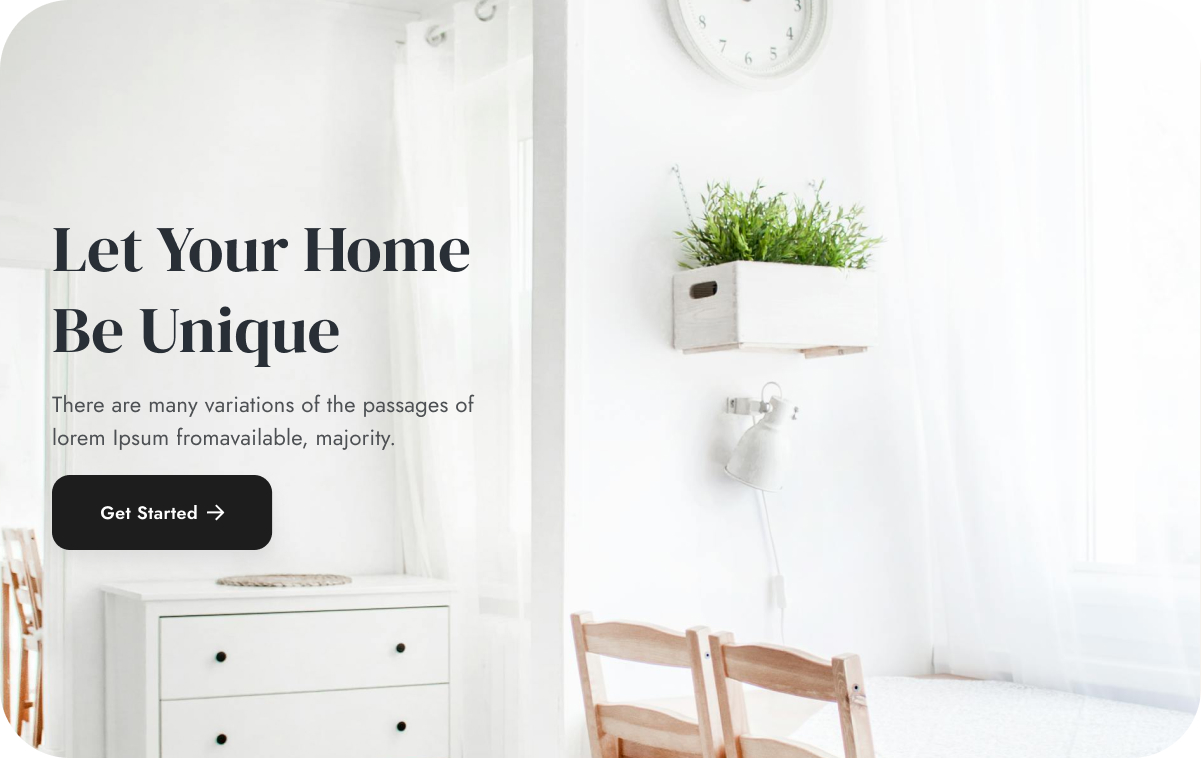
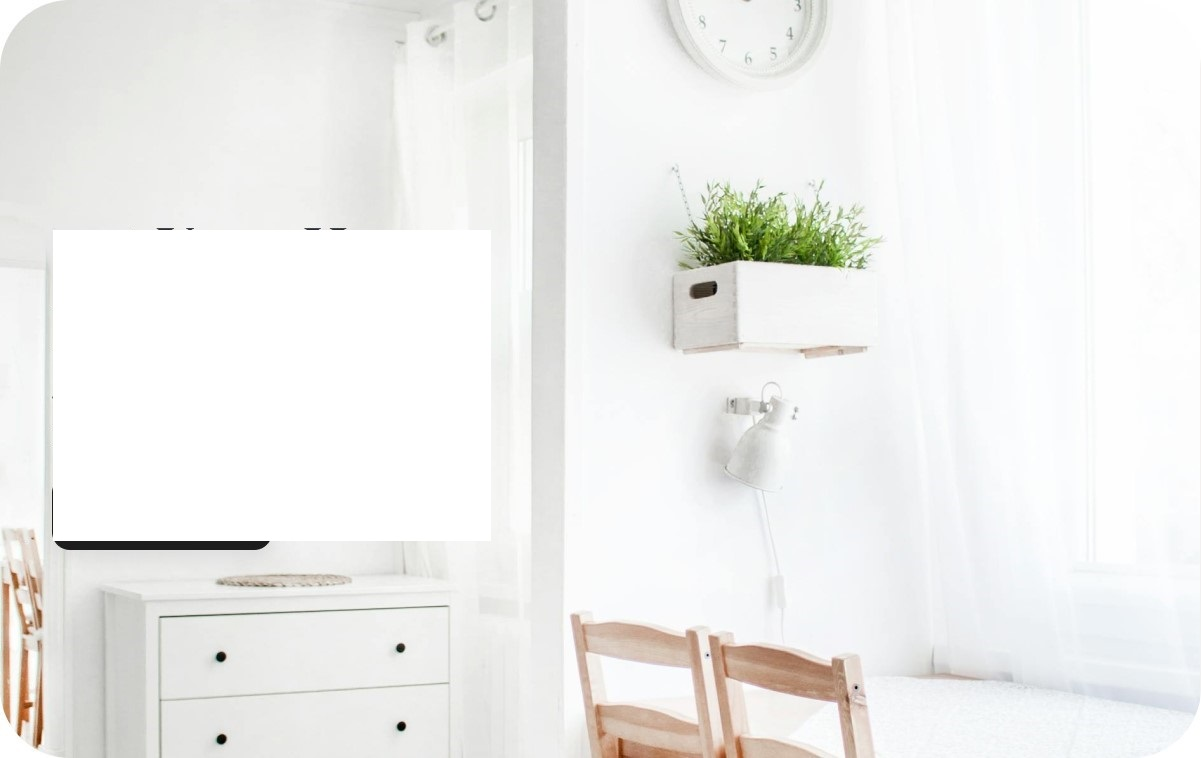
projects

Changed region(s): [[0.0308, 0.3034, 0.4005, 0.7282]]

diff --git a/dncMateria4/src/components/ProjectsList/ProjectsList.jsx b/dncMateria4/src/components/ProjectsList/ProjectsList.jsx
@@ -1,0 +1,71 @@
+import './ProjectsList.css'
+
+// assets
+import likedFilled from '../../assets/like_ok.svg'
+import like from '../../assets/likeNaoGostei.svg'
+
+
+
+function projectsList(props){
+    return (
+        <div className="project-section">
+
+           <div className='project-hero'>
+              <h2>Follow Our Projects</h2>
+              <p>It is a long established fact that a reader will be distracted by the of readable content of page  lookings at its layouts  points. </p>
+           </div>
+           <div className='project-grid'>
+                <div className='project-card d-flex jc-center al-center fd-column'>
+                    <div className='thumb .tertiary-background'></div>
+                    <h3>Joao Silva</h3>
+                    <p>BH, Brasil</p>
+                    <img src={like} />
+                </div>
+                <div className='project-card d-flex jc-center al-center fd-column'>
+                    <div className='thumb .tertiary-background'></div>
+                    <h3>Joao Silva</h3>
+                    <p>BH, Brasil</p>
+                    <img src={like} />
+                </div>
+                <div className='project-card d-flex jc-center al-center fd-column'>
+                    <div className='thumb .tertiary-background'></div>
+                    <h3>Joao Silva</h3>
+                    <p>BH, Brasil</p>
+                    <img src={like} />
+                </div>
+                <div className='project-card d-flex jc-center al-center fd-column'>
+                    <div className='thumb .tertiary-background'></div>
+                    <h3>Joao Silva</h3>
+                    <p>BH, Brasil</p>
+                    <img src={like} />
+                </div>
+                <div className='project-card d-flex jc-center al-center fd-column'>
+                    <div className='thumb .tertiary-background'></div>
+                    <h3>Joao Silva</h3>
+                    <p>BH, Brasil</p>
+                    <img src={like} />
+                </div>
+                <div className='project-card d-flex jc-center al-center fd-column'>
+                    <div className='thumb .tertiary-background'></div>
+                    <h3>Joao Silva</h3>
+                    <p>BH, Brasil</p>
+                    <img src={like} />
+                </div>
+                <div className='project-card d-flex jc-center al-center fd-column'>
+                    <div className='thumb .tertiary-background'></div>
+                    <h3>Joao Silva</h3>
+                    <p>BH, Brasil</p>
+                    <img src={like} />
+                </div>
+                <div className='project-card d-flex jc-center al-center fd-column'>
+                    <div className='thumb .tertiary-background'></div>
+                    <h3>Joao Silva</h3>
+                    <p>BH, Brasil</p>
+                    <img src={like} />
+                </div>
+
+           </div>
+        </div>
+    )
+}
+export default projectsList;

diff --git a/dncMateria4/src/components/ProjectsList/ProjectsList.css b/dncMateria4/src/components/ProjectsList/ProjectsList.css
@@ -1,0 +1,65 @@
+.project-section{
+    margin: 150px 0;
+    text-align: center;
+
+}
+.project-hero{
+    margin: 0 auto 100px auto;
+    max-width: 767px;
+
+}
+
+.project-hero h2{
+font-size: 50px;
+
+}
+
+.project-hero p{
+    font-size: 22px;
+    margin: 10px 0 0 0 ;
+}
+
+.project-grid{
+
+    display: grid;
+    grid-template-columns: repeat(4,1fr);
+    gap: 50px 22px;
+}
+
+.project-card .thumb{
+  background-position: center;
+  background-size: cover;
+  border-radius: 37px;
+  height: 430px;
+  width: 100%;
+
+}
+
+.project-card h3{
+    font-size: 25px;
+    margin: 20px 0 0 0;
+}
+
+.project-card p{
+    font-size: 18px;
+}
+
+@media (max-width: 768px){
+    .project-grid{
+        grid-template-columns: repeat(2,1fr);
+    }
+
+}
+
+
+@media (max-width: 568px){
+    .project-grid{
+        grid-template-columns: 1fr;
+    }
+
+
+}
+
+.tertiary-background{
+    background-color: #F6F;
+  }

diff --git a/dncMateria4/src/pages/Home.jsx b/dncMateria4/src/pages/Home.jsx
@@ -3,16 +3,16 @@ import Button from "../components/Button/Button";
 import Header from "../components/header/Header";
 import Hero  from "../components/Hero/Hero";
 import Footer from "../components/Footer/Footer";
+import ProjectsList from "../components/ProjectsList/ProjectsList";
+
 
 function Home(){
     return (
         <>
           <Header/>
-          <h1>Home</h1>
-          <p>Subtitle</p>
-          <Button buttonStyle="secundary" arrow >Ola</Button>
           <div className="container">
               < Hero />
+              <ProjectsList />
           </div>
           <Footer/>
         </>

diff --git a/dncMateria4/src/components/Hero/Hero.jsx b/dncMateria4/src/components/Hero/Hero.jsx
@@ -7,8 +7,9 @@ function Hero(){
         <div className="hero d-flex al-center">
 
            <div className='hero-text'>
-        
-            <Link>
+                <h1>Let Your HomeBe Unique</h1>
+                <p>There are many variations of the passages of lorem Ipsum fromavailable, majority</p>
+                <Link>
                 <Button buttonStyle="secundary" arrow>
                     Get Started 
                 </Button>

diff --git a/dncMateria4/src/components/Hero/Hero.css b/dncMateria4/src/components/Hero/Hero.css
@@ -1,15 +1,15 @@
 .hero{
-    background-image: url(/hero.jpg);
+    background-image: url(/hero.jpg); 
     background-position: center;
     background-size: cover;
     border-radius: 70px;
     height: 708px;
-    padding: 50px;
+    padding: 50px; 
 }
 
 .hero h1{
-    font-size: 65px;
-    line-height: 125%;
+    font-size: 65px; 
+    line-height: 125%; 
 }
 .hero-text{
     width: 40%;

diff --git a/dncMateria4/src/main.css b/dncMateria4/src/main.css
@@ -103,7 +103,7 @@ body {
     background-color: #1d1d1d
   }
 
-  .tertiary-background{
+ .tertiary-background{
   background-color: #F6F6F6;
 }
 
